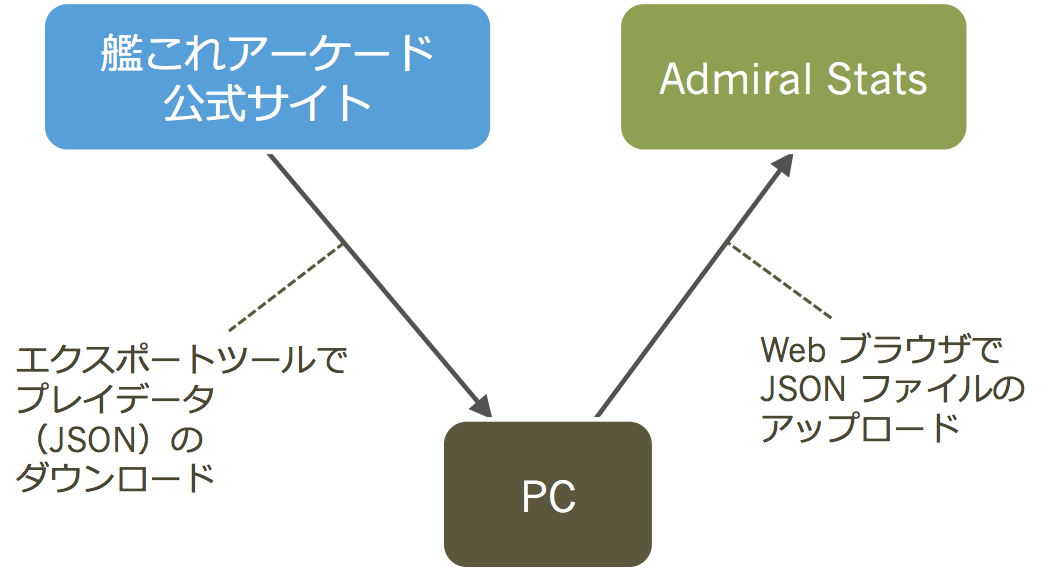
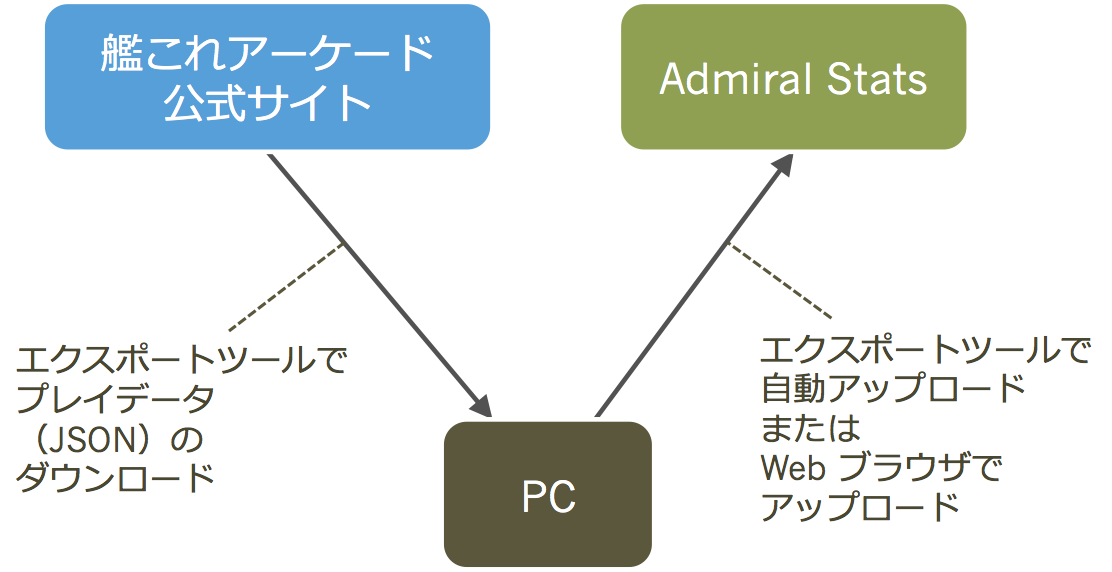
ブックマークレット版エクスポータへの機能追加（自動アップデート）、および使い方の更新

diff --git a/public/bookmarklets/exporter_all.js b/public/bookmarklets/exporter_all.js
@@ -1,1 +1,1 @@
-(function(){var a=new Date,e=[a.getFullYear(),("0"+(a.getMonth()+1)).slice(-2),("0"+a.getDate()).slice(-2),"_",("0"+a.getHours()).slice(-2),("0"+a.getMinutes()).slice(-2),("0"+a.getSeconds()).slice(-2)].join(""),f="Personal/basicInfo Area/captureInfo TcBook/info EquipBook/info Campaign/history Campaign/info Campaign/present CharacterList/info EquipList/info Quest/info Event/info RoomItemList/info".split(" ");window.location.href.match(/^https:\/\/kancolle-arcade.net\/ac\/#\/(area|list|pictureBook)/)?f.forEach(function(a){var b=new XMLHttpRequest,g=a.replace("/","_")+"_"+e+".json";b.open("GET","https://kancolle-arcade.net/ac/api/"+a);b.setRequestHeader("X-Requested-With","XMLHttpRequest");b.responseType="blob";b.onload=function(){if(200===b.status){var d=new Blob([b.response]);if(window.navigator.msSaveBlob)window.navigator.msSaveBlob(d,g);else{var d=(window.URL||window.webkitURL).createObjectURL(d),c=document.createElement("a");document.body.appendChild(c);c.download=a.replace("/","_")+"_"+e+".json";c.href=d;c.click();document.body.removeChild(c)}}else a===f[0]&&alert("Admiral Stats \u30a8\u30af\u30b9\u30dd\u30fc\u30bf v1.1.2\uff1a\u63a5\u7d9a\u306b\u5931\u6557\u3057\u307e\u3057\u305f\u3002\u30d7\u30ec\u30a4\u30e4\u30fc\u30ba\u30b5\u30a4\u30c8\u306b\u518d\u30ed\u30b0\u30a4\u30f3\u3057\u3066\u304b\u3089\u5b9f\u884c\u3057\u3066\u304f\u3060\u3055\u3044\u3002(status code = "+b.status+")")};b.send()}):alert("Admiral Stats \u30a8\u30af\u30b9\u30dd\u30fc\u30bf v1.1.2\uff1a\u30d7\u30ec\u30a4\u30e4\u30fc\u30ba\u30b5\u30a4\u30c8\u306b\u30ed\u30b0\u30a4\u30f3\u3057\u3001\u6d77\u57df\u60c5\u5831\u304c\u8868\u793a\u3055\u308c\u305f\u72b6\u614b\u3067\u5b9f\u884c\u3057\u3066\u304f\u3060\u3055\u3044\u3002")})();
+(function(){var a=new Date,g=[a.getFullYear(),("0"+(a.getMonth()+1)).slice(-2),("0"+a.getDate()).slice(-2),"_",("0"+a.getHours()).slice(-2),("0"+a.getMinutes()).slice(-2),("0"+a.getSeconds()).slice(-2)].join(""),h="Personal/basicInfo Area/captureInfo TcBook/info EquipBook/info Campaign/history Campaign/info Campaign/present CharacterList/info EquipList/info Quest/info Event/info RoomItemList/info".split(" ");if(window.location.href.match(/^https:\/\/kancolle-arcade.net\/ac\/#\/(area|list|pictureBook)/)){var d=(a=document.getElementById("admiral-stats-exporter"))&&a.getAttribute("data-token");d&&0===d.length&&(d=nil);var l=a&&"true"===a.getAttribute("data-skip-backup");h.forEach(function(a){var k=a.replace("/","_"),b=new XMLHttpRequest,m=k+"_"+g+".json";b.open("GET","https://kancolle-arcade.net/ac/api/"+a);b.setRequestHeader("X-Requested-With","XMLHttpRequest");b.responseType="blob";b.onload=function(){if(200===b.status){if(d){var c=new XMLHttpRequest;c.open("POST","https://www.admiral-stats.com/api/v1/import/"+k+"/"+g);c.setRequestHeader("Content-Type","application/json");c.setRequestHeader("Authorization","Bearer "+d);c.onload=function(){if(300<=c.status&&a===h[0]){var b="Admiral Stats \u30a8\u30af\u30b9\u30dd\u30fc\u30bf v1.6.1\uff1aAdmiral Stats \u3078\u306e\u30a2\u30c3\u30d7\u30ed\u30fc\u30c9\u306b\u5931\u6557\u3057\u307e\u3057\u305f\u3002(status code = "+c.status;try{JSON.parse(c.response).errors.forEach(function(a){b+=", ";b+=a.message})}catch(n){}alert(b+")")}};c.send(b.response)}if(!l){var f=new Blob([b.response]);if(window.navigator.msSaveBlob)window.navigator.msSaveBlob(f,m);else{var f=(window.URL||window.webkitURL).createObjectURL(f),e=document.createElement("a");document.body.appendChild(e);e.download=k+"_"+g+".json";e.href=f;e.click();document.body.removeChild(e)}}}else a===h[0]&&alert("Admiral Stats \u30a8\u30af\u30b9\u30dd\u30fc\u30bf v1.6.1\uff1a\u63a5\u7d9a\u306b\u5931\u6557\u3057\u307e\u3057\u305f\u3002\u30d7\u30ec\u30a4\u30e4\u30fc\u30ba\u30b5\u30a4\u30c8\u306b\u518d\u30ed\u30b0\u30a4\u30f3\u3057\u3066\u304b\u3089\u5b9f\u884c\u3057\u3066\u304f\u3060\u3055\u3044\u3002(status code = "+b.status+")")};b.send()})}else alert("Admiral Stats \u30a8\u30af\u30b9\u30dd\u30fc\u30bf v1.6.1\uff1a\u30d7\u30ec\u30a4\u30e4\u30fc\u30ba\u30b5\u30a4\u30c8\u306b\u30ed\u30b0\u30a4\u30f3\u3057\u3001\u6d77\u57df\u60c5\u5831\u304c\u8868\u793a\u3055\u308c\u305f\u72b6\u614b\u3067\u5b9f\u884c\u3057\u3066\u304f\u3060\u3055\u3044\u3002")})();

diff --git a/public/bookmarklets/exporter.js b/public/bookmarklets/exporter.js
@@ -1,1 +1,1 @@
-(function(){var a=new Date,e=[a.getFullYear(),("0"+(a.getMonth()+1)).slice(-2),("0"+a.getDate()).slice(-2),"_",("0"+a.getHours()).slice(-2),("0"+a.getMinutes()).slice(-2),("0"+a.getSeconds()).slice(-2)].join(""),f=["Personal/basicInfo","TcBook/info","CharacterList/info","Event/info"];window.location.href.match(/^https:\/\/kancolle-arcade.net\/ac\/#\/(area|list|pictureBook)/)?f.forEach(function(a){var b=new XMLHttpRequest,g=a.replace("/","_")+"_"+e+".json";b.open("GET","https://kancolle-arcade.net/ac/api/"+a);b.setRequestHeader("X-Requested-With","XMLHttpRequest");b.responseType="blob";b.onload=function(){if(200===b.status){var d=new Blob([b.response]);if(window.navigator.msSaveBlob)window.navigator.msSaveBlob(d,g);else{var d=(window.URL||window.webkitURL).createObjectURL(d),c=document.createElement("a");document.body.appendChild(c);c.download=a.replace("/","_")+"_"+e+".json";c.href=d;c.click();document.body.removeChild(c)}}else a===f[0]&&alert("Admiral Stats \u30a8\u30af\u30b9\u30dd\u30fc\u30bf v1.1.2\uff1a\u63a5\u7d9a\u306b\u5931\u6557\u3057\u307e\u3057\u305f\u3002\u30d7\u30ec\u30a4\u30e4\u30fc\u30ba\u30b5\u30a4\u30c8\u306b\u518d\u30ed\u30b0\u30a4\u30f3\u3057\u3066\u304b\u3089\u5b9f\u884c\u3057\u3066\u304f\u3060\u3055\u3044\u3002(status code = "+b.status+")")};b.send()}):alert("Admiral Stats \u30a8\u30af\u30b9\u30dd\u30fc\u30bf v1.1.2\uff1a\u30d7\u30ec\u30a4\u30e4\u30fc\u30ba\u30b5\u30a4\u30c8\u306b\u30ed\u30b0\u30a4\u30f3\u3057\u3001\u6d77\u57df\u60c5\u5831\u304c\u8868\u793a\u3055\u308c\u305f\u72b6\u614b\u3067\u5b9f\u884c\u3057\u3066\u304f\u3060\u3055\u3044\u3002")})();
+(function(){var a=new Date,g=[a.getFullYear(),("0"+(a.getMonth()+1)).slice(-2),("0"+a.getDate()).slice(-2),"_",("0"+a.getHours()).slice(-2),("0"+a.getMinutes()).slice(-2),("0"+a.getSeconds()).slice(-2)].join(""),h=["Personal/basicInfo","TcBook/info","CharacterList/info","Event/info"];if(window.location.href.match(/^https:\/\/kancolle-arcade.net\/ac\/#\/(area|list|pictureBook)/)){var d=(a=document.getElementById("admiral-stats-exporter"))&&a.getAttribute("data-token");d&&0===d.length&&(d=nil);var l=a&&"true"===a.getAttribute("data-skip-backup");h.forEach(function(a){var k=a.replace("/","_"),b=new XMLHttpRequest,m=k+"_"+g+".json";b.open("GET","https://kancolle-arcade.net/ac/api/"+a);b.setRequestHeader("X-Requested-With","XMLHttpRequest");b.responseType="blob";b.onload=function(){if(200===b.status){if(d){var c=new XMLHttpRequest;c.open("POST","https://www.admiral-stats.com/api/v1/import/"+k+"/"+g);c.setRequestHeader("Content-Type","application/json");c.setRequestHeader("Authorization","Bearer "+d);c.onload=function(){if(300<=c.status&&a===h[0]){var b="Admiral Stats \u30a8\u30af\u30b9\u30dd\u30fc\u30bf v1.6.1\uff1aAdmiral Stats \u3078\u306e\u30a2\u30c3\u30d7\u30ed\u30fc\u30c9\u306b\u5931\u6557\u3057\u307e\u3057\u305f\u3002(status code = "+c.status;try{JSON.parse(c.response).errors.forEach(function(a){b+=", ";b+=a.message})}catch(n){}alert(b+")")}};c.send(b.response)}if(!l){var f=new Blob([b.response]);if(window.navigator.msSaveBlob)window.navigator.msSaveBlob(f,m);else{var f=(window.URL||window.webkitURL).createObjectURL(f),e=document.createElement("a");document.body.appendChild(e);e.download=k+"_"+g+".json";e.href=f;e.click();document.body.removeChild(e)}}}else a===h[0]&&alert("Admiral Stats \u30a8\u30af\u30b9\u30dd\u30fc\u30bf v1.6.1\uff1a\u63a5\u7d9a\u306b\u5931\u6557\u3057\u307e\u3057\u305f\u3002\u30d7\u30ec\u30a4\u30e4\u30fc\u30ba\u30b5\u30a4\u30c8\u306b\u518d\u30ed\u30b0\u30a4\u30f3\u3057\u3066\u304b\u3089\u5b9f\u884c\u3057\u3066\u304f\u3060\u3055\u3044\u3002(status code = "+b.status+")")};b.send()})}else alert("Admiral Stats \u30a8\u30af\u30b9\u30dd\u30fc\u30bf v1.6.1\uff1a\u30d7\u30ec\u30a4\u30e4\u30fc\u30ba\u30b5\u30a4\u30c8\u306b\u30ed\u30b0\u30a4\u30f3\u3057\u3001\u6d77\u57df\u60c5\u5831\u304c\u8868\u793a\u3055\u308c\u305f\u72b6\u614b\u3067\u5b9f\u884c\u3057\u3066\u304f\u3060\u3055\u3044\u3002")})();

diff --git a/app/assets/stylesheets/application.scss b/app/assets/stylesheets/application.scss
@@ -36,6 +36,7 @@ td.rate-tuchinoko { text-align: center; color: #A94442; background-color: #F2DED
 
 // API トークンのセル
 td.token { word-break: break-all; }
+td.uri { word-break: break-all; }
 
 // Lv 99 到達予想日のセル
 // bootstrap に元々ある定義の優先度が強いため、ここまで指定しないとこちらが優先されない

diff --git a/app/controllers/manual_controller.rb b/app/controllers/manual_controller.rb
@@ -2,6 +2,10 @@ class ManualController < ApplicationController
   def exporter
     set_meta_tags title: 'Admiral Stats の使い方'
 
+    if logged_in?
+      @token = AdmiralToken.where('admiral_id = ?', current_admiral.id).order(issued_at: :asc).first
+    end
+
     # メニューバーまでキャッシュされてしまう（キャッシュ時のログイン状態のまま表示されてしまう）ため
     # キャッシュを無効化した。あとで、本文だけキャッシュするように直す。
 
